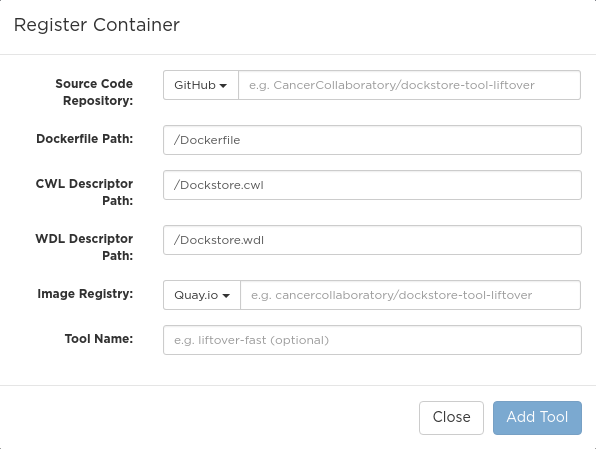
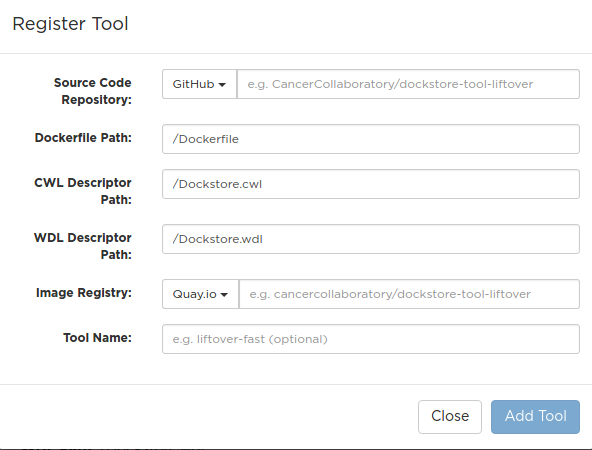
Additional documentation updates (#85)

diff --git a/app/scripts/services/documentationservice.js b/app/scripts/services/documentationservice.js
@@ -59,6 +59,12 @@ angular.module('dockstore.ui')
           description: 'Dockstore news and events',
           name: 'News and Events',
           path: 'docs/blog.md'
+        },
+        {
+          slug: 'advanced-features',
+          description: 'This page introduces advanced features of Dockstore that may make using or developing Dockstore tools more convenient',
+          name: 'Advanced Features',
+          path: 'docs/advanced-features.md'
         }
       ];
 

diff --git a/app/views/home.html b/app/views/home.html
@@ -87,10 +87,13 @@
   <div class="container">
     <div class="row">
       <div class="col-md-4">
-        <h3 class="documentation">About Dockstore</h3>
+        <h3 class="documentation">Using Dockstore</h3>
         <ul>
           <li>
             <a href="/docs/blog">News and Events</a>
+          </li>
+          <li>
+            <a href="/docs/advanced-features">Advanced Features</a>
           </li>
         </ul>
       </div>

diff --git a/app/templates/registercontainer.html b/app/templates/registercontainer.html
@@ -2,7 +2,7 @@
   <div class="modal-dialog">
     <div class="modal-content">
       <div class="modal-header">
-        <h4 class="modal-title">Register Container</h4>
+        <h4 class="modal-title">Register Tool</h4>
       </div>
       <div class="alert alert-danger alert-dismissable"
           role="alert"

diff --git a/app/scripts/controllers/onboarding.js b/app/scripts/controllers/onboarding.js
@@ -39,7 +39,7 @@ angular.module('dockstore.ui')
             $scope.owStep++;
             break;
           default:
-            $location.path('/search-containers');
+            $location.path('/docs');
         }
       };
 

diff --git a/app/docs/getting-started-with-dockstore.md b/app/docs/getting-started-with-dockstore.md
@@ -10,9 +10,9 @@ Your link to GitHub is established on login and you will then be prompted to lin
 
 ![Link accounts](docs/linking1.png)
 
-Linking a supported image repository service (e.g. Quay.io) will automatically trigger a synchronization order to retrieve information about the account's containers
+Linking a supported image repository service (e.g. Quay.io) will automatically trigger a synchronization order to retrieve information about the account's tools
 
-![Refresh containers](docs/linking2.png)
+![Refresh tools](docs/linking2.png)
 
 Below, GitHub, BitBucket and Quay.io accounts have been linked, it is necessary for at least the GitHub account be linked in order to perform regular account activities.
 
@@ -28,13 +28,13 @@ Now that you have your `Dockerfile` and `Dockstore.cwl` in GitHub, have setup Qu
 
 ### Quick Registration via the Web UI 
 
-In the authenticated Web UI, navigate to 'My Containers' to begin managing Docker images imported through your linked account(s). These pages will allow you to quickly register containers that follow a particularly simple format (look below to manual registration for more complex formats). For quick registration, we look through your quay.io images and see if any are setup as [automated builds](https://docs.quay.io/guides/building.html). Using those to track back to your github or bitbucket accounts, we list all pairs of Docker images with git repositories that contain a `Dockstore.cwl` and a `Dockerfile`. When we discover both of these, we create an unregistered entry in the interface below. 
+In the authenticated Web UI, navigate to 'My Tools' to begin managing Docker images imported through your linked account(s). These pages will allow you to quickly register tools that follow a particularly simple format (look below to manual registration for more complex formats). For quick registration, we look through your quay.io images and see if any are setup as [automated builds](https://docs.quay.io/guides/building.html). Using those to track back to your github or bitbucket accounts, we list all pairs of Docker images with git repositories that contain a `Dockstore.cwl` and a `Dockerfile`. When we discover both of these, we create an unregistered entry in the interface below. 
 
-![My Containers](docs/register_ui.png)
+![My Tools](docs/register_ui.png)
 
-The left side menu is a list of all image repositories associated with the user, grouped lexicographically by namespace. Words encapsulated in parentheses denotes the toolname. Detailed information and links for each container is located on the 'Info' tab. The 'Labels' tab allows editing of keywords to be associated with a container for efficient searching and grouping. Settings such as the path to the Dockerfile and CWL Descriptor can be modified on a per-tag basis in the 'Versions' tab. The Dockerfile and CWL/WDL Descriptor may be viewed in the last two tabs, by the Version tag (corresponding to a Git tag/branch).
+The left side menu is a list of all image repositories associated with the user, grouped lexicographically by namespace. Words encapsulated in parentheses denotes the toolname. Detailed information and links for each tool is located on the 'Info' tab. The 'Labels' tab allows editing of keywords to be associated with a tool for efficient searching and grouping. Settings such as the path to the Dockerfile and CWL Descriptor can be modified on a per-tag basis in the 'Versions' tab. The Dockerfile and CWL/WDL Descriptor may be viewed in the last two tabs, by the Version tag (corresponding to a Git tag/branch).
 
-A container is not visible on the public 'Containers' listing unless it is published. To publish a container, press the yellow 'Register' button in the top-right corner.
+A tool is not visible on the public 'Tools' listing unless it is published. To publish a tool, press the yellow 'Register' button in the top-right corner.
 
 For the tutorial, generally, you should hit the "Refresh All Tools" button to make sure Dockstore has examined your latest repositories on Quay.  Do this especially if you created a new repository like we did here.
                   
@@ -46,19 +46,19 @@ Now select the `collaboratory/dockstore-tool-bamstats` repository and click "Pub
                   
 You can also click on the "Versions" tab and should notice `1.25-3` is present and Valid=Yes.  If any versions are invalid it is likely due to a path issue to the `Dockstore.cwl`, `Dockerfile`, or `Dockstore.wdl` (if used) files.  In BAMStats I used the default value of `Dockstore.cwl` and `Dockerfile` in the root repo directory so this was not an issue.
 
-#### Manual Registration of Containers
+#### Manual Registration of Tools
 
-Outside of this tutorial, in certain cases, it is not possible for Dockstore to register every existing container, especially those with unusual project structures. Most notably, Docker Hub images can not be automatically detected by Dockstore. The second possibility is that you have multiple CWL documents in a GitHub repository associated with multiple images. For those cases, it is necessary to manually register their details to Dockstore.
+Outside of this tutorial, in certain cases, it is not possible for Dockstore to register every existing tool, especially those with unusual project structures. Most notably, Docker Hub images can not be automatically detected by Dockstore. The second possibility is that you have multiple CWL documents in a GitHub repository associated with multiple images. For those cases, it is necessary to manually register their details to Dockstore.
 
-Containers can be registered manually from the 'My Containers' page by pressing the 'Add Container' button at the bottom of the right side bar, or any of the '+' buttons in each accordion namespace group. A modal will appear as below:
+Tools can be registered manually from the 'My Tools' page by pressing the 'Add Tool' button at the bottom of the right side bar, or any of the '+' buttons in each accordion namespace group. A modal dialog will appear as below:
 
-![Register Container Manual](docs/register_container_manual.png)
+![Register Tool Manual](docs/register_container_manual.png)
 
 The Source Code Repository and Image Registry fields must be filled out, they are in the format `namespace/name` (the two paths may differ). The Dockerfile Path and CWL/WDL Descriptor Paths are relative to the root of the Source Code Repository (and must begin with '/'), these will be the default locations to find their corresponding files, unless specified otherwise in the tags. The toolname is an optional 'suffix' appended to the Dockstore path, it allows for two repositories to share the same Git and Image Registry paths; the image registry path and the toolname uniquely distinguishes image repositories in Dockstore.
 
-Upon successful submission and registration of the container, a resynchronization call will be made to fetch all available data from the given sources. If the image registry is Quay.io, existing version tags will be prepopulated for the Dockstore record.
+Upon successful submission and registration of the tool, a resynchronization call will be made to fetch all available data from the given sources. If the image registry is Quay.io, existing version tags will be prepopulated for the Dockstore record.
 
-The user will then be taken to the 'Versions' tab of the new container, where tags (corresponding to GitHub/Bitbucket tag names) may be added.
+The user will then be taken to the 'Versions' tab of the new tool, where tags (corresponding to GitHub/Bitbucket tag names) may be added.
 
 ![Versions Grid](docs/version_tags.png)
 
@@ -164,7 +164,7 @@ First, we will work in tool mode (`dockstore tool`). We recommend you first `doc
     ------------------
 
 
-You can then use `dockstore tool publish` to see the list of available Docker images you can register with Dockstore. This is for you to publish containers that are auto-detected from Quay.io. The key is that Docker images you wish to (quick) publish have the following qualities:
+You can then use `dockstore tool publish` to see the list of available Docker images you can register with Dockstore. This is for you to publish tools that are auto-detected from Quay.io. The key is that Docker images you wish to (quick) publish have the following qualities:
 
 0. public
 0. at least one valid tag. In order to be valid, a tag has to:
@@ -193,7 +193,7 @@ You can then use `dockstore tool publish` to see the list of available Docker im
 
 You can see in the above, the tool (identified with `quay.io/cancercollaboratory/dockstore-tool-snpeff` in Dockstore and Quay.io) was successfully registered and can be seen by anyone on the Dockstore site.
 
-The `dockstore tool manual_publish` command can be used to manually register a container on Docker Hub. Its usage is outlined in the publish_manual help menu. This will allow you to register entries that do not follow the qualities above (non-automated builds and Docker Hub images). 
+The `dockstore tool manual_publish` command can be used to manually register a tool on Docker Hub. Its usage is outlined in the publish_manual help menu. This will allow you to register entries that do not follow the qualities above (non-automated builds and Docker Hub images). 
 
     $ dockstore tool manual_publish
     

diff --git a/app/docs/advanced-features.md b/app/docs/advanced-features.md
@@ -1,0 +1,18 @@
+# Advanced Features
+
+## Input File Cache
+
+When developing or debugging tools, it can be time consuming (and space-consuming) to repeatedly download input files for your tools. A feature of the Dockstore CLI is the ability to cache input files locally so that they can be quickly re-used for multiple attempts at launching a tool. 
+
+This feature relies upon Linux [hard-linking](https://en.wikipedia.org/wiki/Hard_link) so when enabling this feature, it is important to ensure that the location of the cache directory (by default, at `~/.dockstore/cache/`) is on the same filesystem as the working directory where you intend on running your tools. 
+
+There are two configuration file keys that can be used to activate input file caching and to configure the location of the cache.  These are added (or changed) inside your configuration file at `~/.dockstore/config`.
+
+```
+use-cache = true 
+cache-dir = 
+```
+
+The former is false by default and can be set to true in order to activate the cache. 
+The latter is `~/.dockstore/cache/` by default and can be set to any directory location.
+
